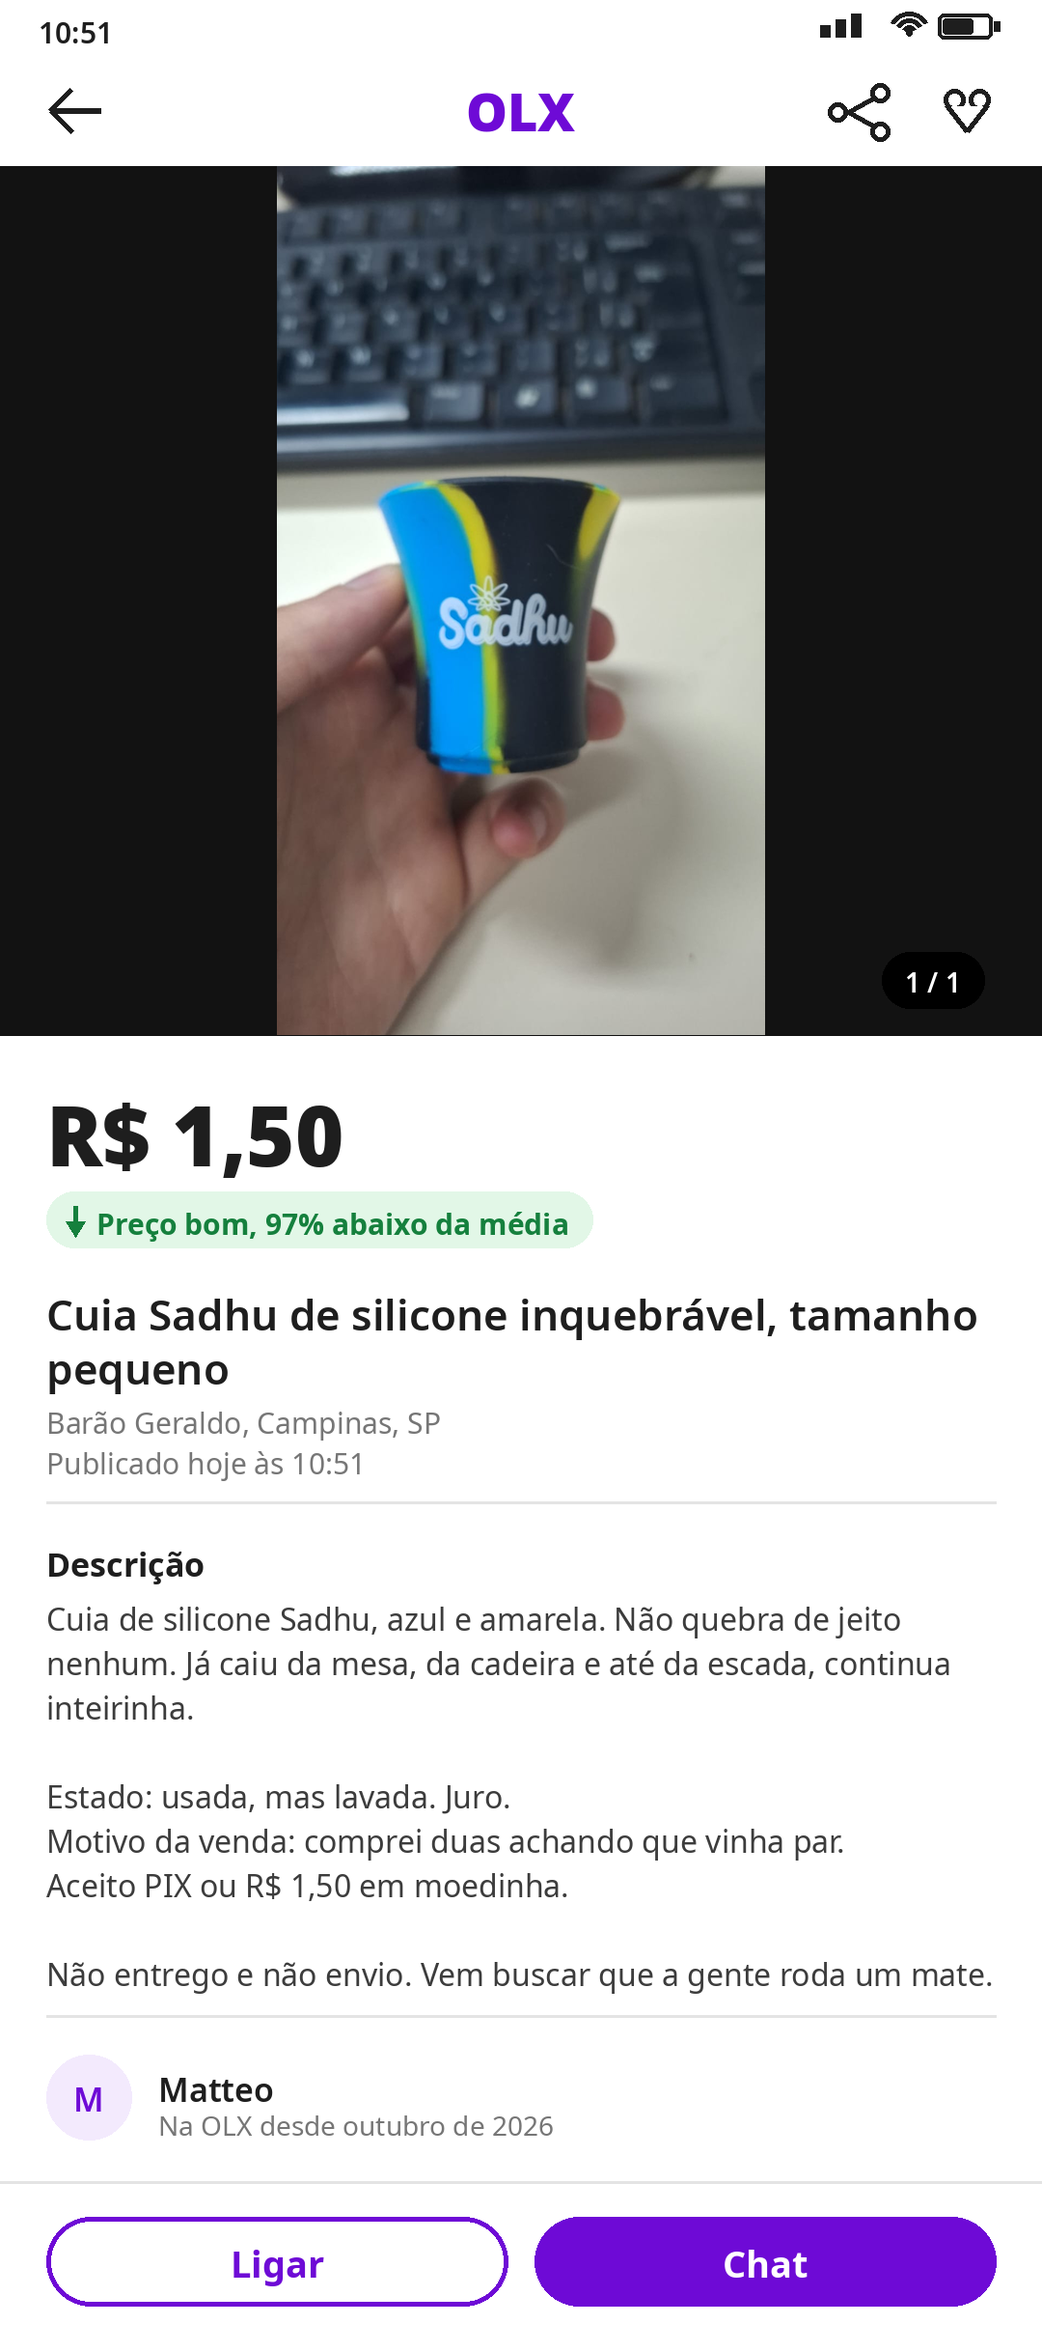
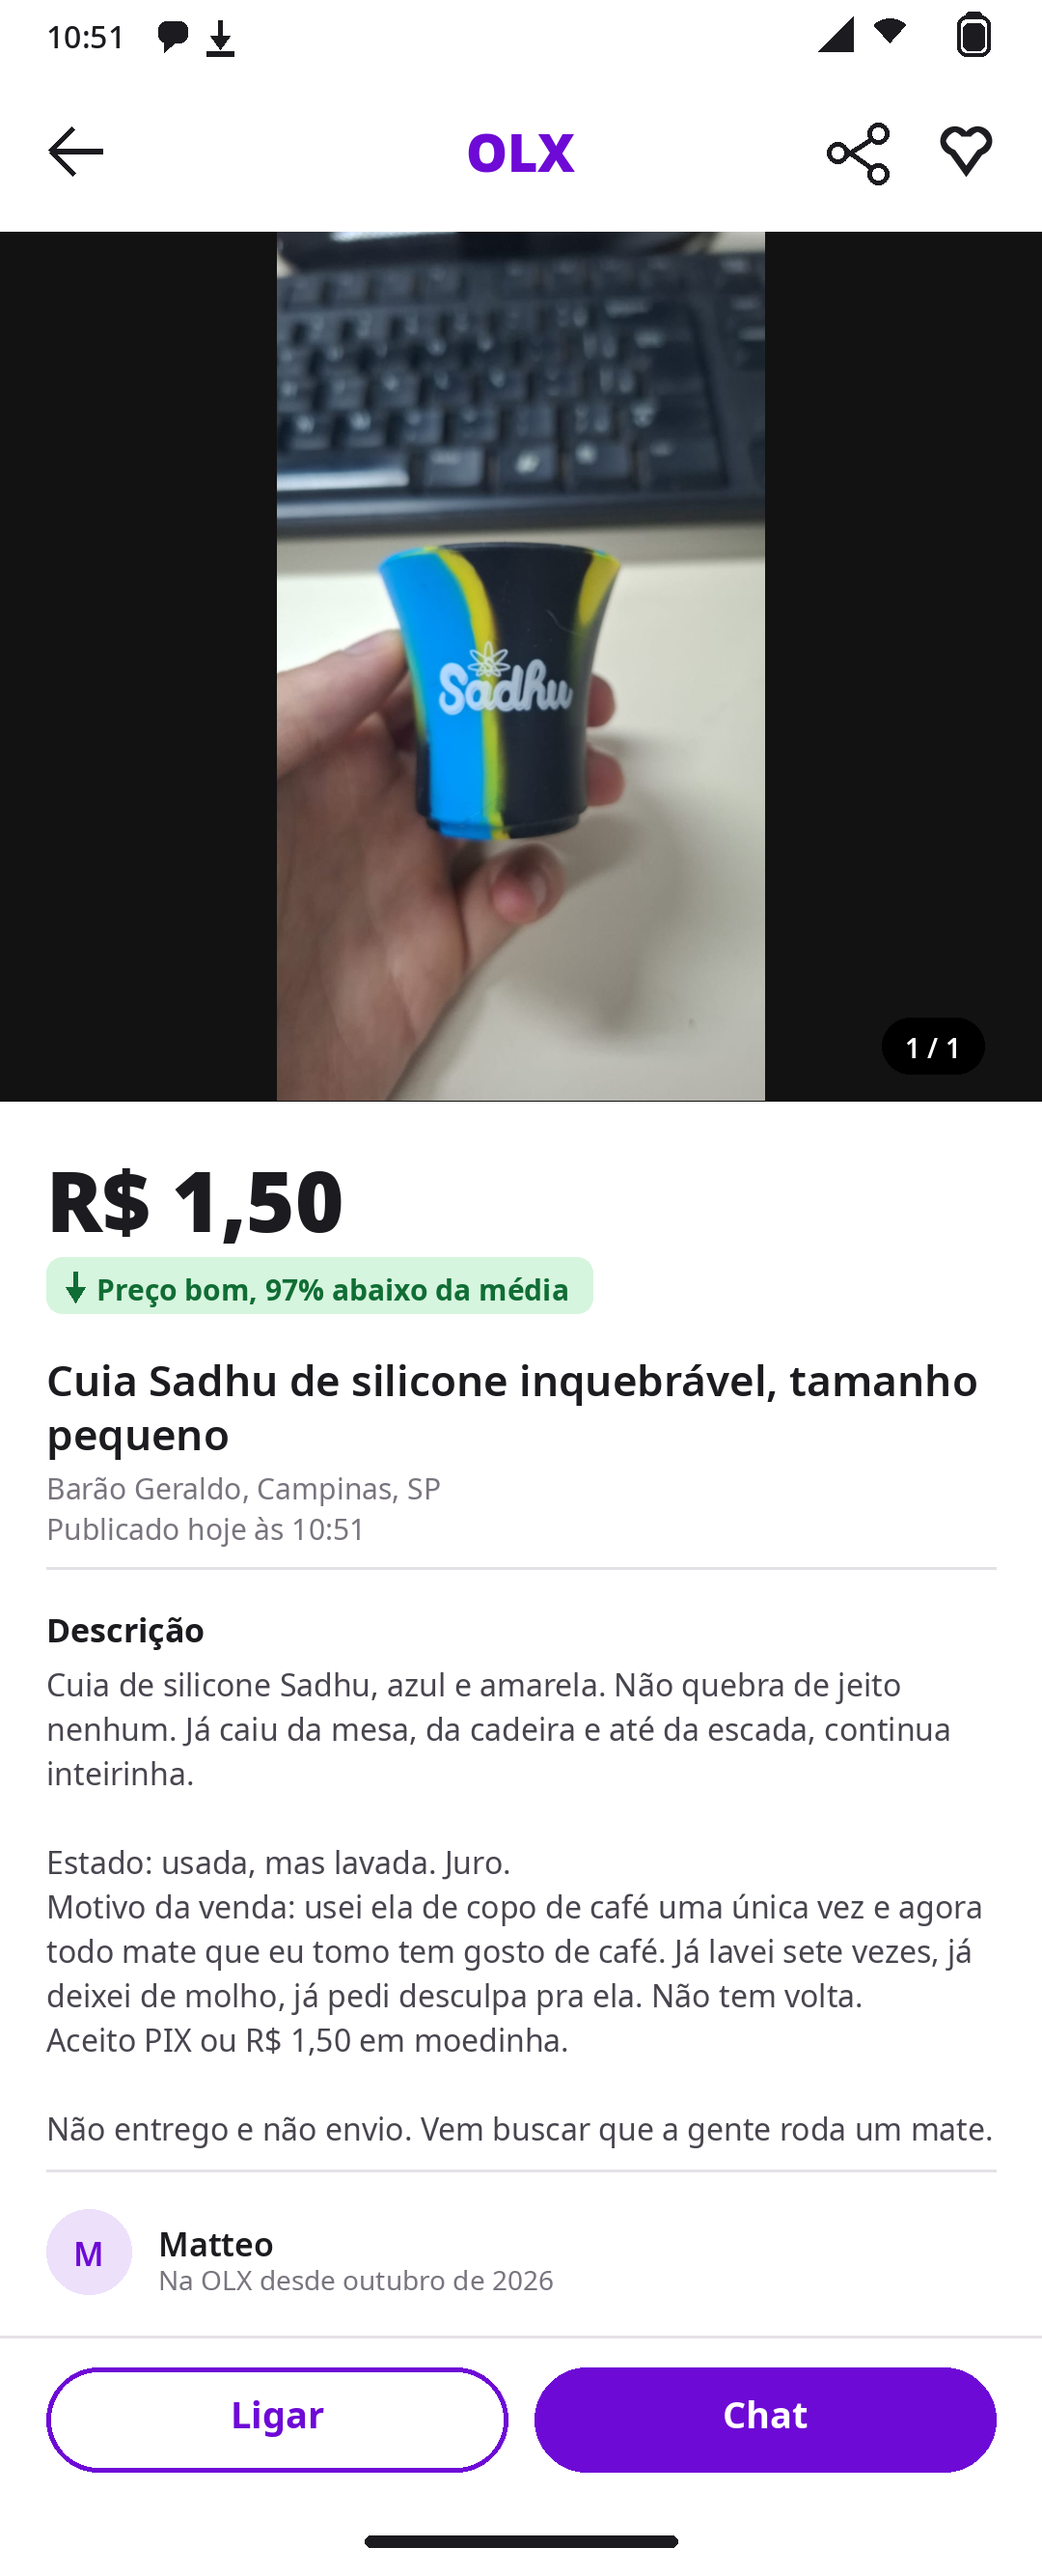
Adota a interface do Android atual e reescreve o motivo da venda

diff --git a/olx-cuia/gerar_anuncio_olx.py b/olx-cuia/gerar_anuncio_olx.py
@@ -3,12 +3,14 @@
 Gera um mockup de anúncio da OLX usando a foto da cuia Sadhu.
 Brincadeira, não é material oficial nem afiliado à OLX.
 
-A altura final é calculada a partir do conteúdo, então a barra de
-botões nunca cobre a descrição ou o card do vendedor.
+A interface imita um Android atual (Material 3), com barra de status do
+Android, top app bar achatada, botões em formato pill e a barra de gestos
+no rodapé. A altura final é calculada a partir do conteúdo, então a barra
+de ações nunca cobre a descrição ou o card do vendedor.
 """
 
 from pathlib import Path
-from PIL import Image, ImageDraw, ImageFont
+from PIL import Image, ImageChops, ImageDraw, ImageFilter, ImageFont
 
 # ---------------------------------------------------------------- caminhos
 AQUI = Path(__file__).resolve().parent
@@ -22,24 +24,29 @@ def fonte(nome, tamanho):
     return ImageFont.truetype(str(FONTES / f"NotoSans-{nome}.ttf"), tamanho)
 
 
-# ---------------------------------------------------------------- paleta
+# ------------------------------------------------- paleta (Material 3)
 ROXO = (110, 10, 214)
-ROXO_CLARO = (243, 234, 253)
+ROXO_CLARO = (237, 224, 251)
 BRANCO = (255, 255, 255)
-PRETO_TEXTO = (30, 30, 30)
-CINZA_TEXTO = (60, 60, 60)
-CINZA = (118, 118, 118)
-CINZA_LINHA = (228, 228, 228)
+ON_SURFACE = (28, 27, 31)
+ON_SURFACE_VAR = (73, 69, 79)
+OUTLINE = (121, 116, 126)
+OUTLINE_VAR = (228, 225, 230)
 FUNDO_FOTO = (18, 18, 18)
-VERDE_BG = (226, 247, 231)
-VERDE_TXT = (21, 128, 61)
+VERDE_BG = (214, 245, 222)
+VERDE_TXT = (16, 109, 52)
+NAV_PILL = (28, 27, 31)
 
 L = 1080
 MARGEM = 48
-ALTURA_BARRA = 176
-CANVAS = 3200  # rascunho generoso, cortado no final
+H_STATUS = 72
+H_APPBAR = 168
+H_ACOES = 176
+H_NAV = 72
+CANVAS = 3400  # rascunho generoso, cortado no final
 
 # ---------------------------------------------------------------- conteúdo
+HORA = "10:51"
 PRECO = "R$ 1,50"
 SELO = "Preço bom, 97% abaixo da média"
 TITULO = "Cuia Sadhu de silicone inquebrável, tamanho pequeno"
@@ -52,14 +59,16 @@ DESCRICAO = (
     "Já caiu da mesa, da cadeira e até da escada, continua inteirinha.\n"
     "\n"
     "Estado: usada, mas lavada. Juro.\n"
-    "Motivo da venda: comprei duas achando que vinha par.\n"
+    "Motivo da venda: usei ela de copo de café uma única vez e agora todo "
+    "mate que eu tomo tem gosto de café. Já lavei sete vezes, já deixei de "
+    "molho, já pedi desculpa pra ela. Não tem volta.\n"
     "Aceito PIX ou R$ 1,50 em moedinha.\n"
     "\n"
     "Não entrego e não envio. Vem buscar que a gente roda um mate."
 )
 
 # ---------------------------------------------------------------- fontes
-f_status = fonte("SemiBold", 30)
+f_status = fonte("Medium", 32)
 f_logo = fonte("Black", 54)
 f_preco = fonte("Black", 86)
 f_badge = fonte("Bold", 30)
@@ -76,15 +85,14 @@ img = Image.new("RGB", (L, CANVAS), BRANCO)
 d = ImageDraw.Draw(img)
 
 
+# ---------------------------------------------------------------- helpers
 def largura(texto, f):
     x0, _, x1, _ = d.textbbox((0, 0), texto, font=f)
     return x1 - x0
 
 
-def centro(texto, f, x_ini, x_fim, y, cor, desenho=None):
-    (desenho or d).text(
-        ((x_ini + x_fim) / 2 - largura(texto, f) / 2, y), texto, font=f, fill=cor
-    )
+def centro(texto, f, x_ini, x_fim, y, cor):
+    d.text(((x_ini + x_fim) / 2 - largura(texto, f) / 2, y), texto, font=f, fill=cor)
 
 
 def quebra(texto, f, max_larg):
@@ -107,54 +115,96 @@ def quebra(texto, f, max_larg):
     return linhas
 
 
-# ================================================= 1. barra de status
-d.text((MARGEM - 8, 12), "10:51", font=f_status, fill=PRETO_TEXTO)
+def _mascara_coracao(lado, w):
+    """Silhueta cheia de coração, centrada num quadrado de lado `lado`."""
+    m = Image.new("L", (lado, lado), 0)
+    dm = ImageDraw.Draw(m)
+    cx = cy = lado / 2
+    r = w * 0.28
+    topo = cy - w * 0.18
+    for dx in (-w * 0.22, w * 0.22):
+        dm.ellipse([cx + dx - r, topo - r, cx + dx + r, topo + r], fill=255)
+    dm.polygon(
+        [(cx - w * 0.5, topo), (cx + w * 0.5, topo), (cx, cy + w * 0.52)], fill=255
+    )
+    return m
 
-bx = L - 230
-for i, h in enumerate((12, 18, 24)):
-    d.rectangle([bx + i * 16, 38 - h, bx + i * 16 + 10, 38], fill=PRETO_TEXTO)
 
-wx = L - 138
-for r in (22, 15, 8):
-    d.arc([wx - r, 34 - r, wx + r, 34 + r], 210, 330, fill=PRETO_TEXTO, width=5)
-d.ellipse([wx - 3, 31, wx + 3, 37], fill=PRETO_TEXTO)
+def coracao(base, cx, cy, w, cor, espessura=None):
+    """
+    Desenha um coração em (cx, cy). Sem `espessura` sai cheio; com
+    `espessura` sai vazado, usando erosão da máscara para o contorno
+    ficar com a mesma grossura em toda a volta.
+    """
+    S = 4  # supersample, suaviza as bordas
+    lado = int(w * S * 1.7)
+    m = _mascara_coracao(lado, w * S)
+    if espessura:
+        k = 2 * int(espessura * S) + 1
+        m = ImageChops.subtract(m, m.filter(ImageFilter.MinFilter(k)))
+    m = m.resize((lado // S, lado // S), Image.LANCZOS)
+    base.paste(Image.new("RGB", m.size, cor), (int(cx - m.width / 2), int(cy - m.height / 2)), m)
 
-d.rounded_rectangle([L - 108, 14, L - 52, 40], radius=6, outline=PRETO_TEXTO, width=4)
-d.rectangle([L - 50, 22, L - 44, 32], fill=PRETO_TEXTO)
-d.rounded_rectangle([L - 103, 19, L - 72, 35], radius=3, fill=PRETO_TEXTO)
 
-# ================================================= 2. header
-HEADER_BASE = 172
-cy = (56 + HEADER_BASE) // 2
+# ======================================= 1. barra de status do Android
+cy = H_STATUS // 2
+d.text((MARGEM, cy - 21), HORA, font=f_status, fill=ON_SURFACE)
 
-d.line([(52, cy), (104, cy)], fill=PRETO_TEXTO, width=6)
-d.line([(52, cy), (74, cy - 22)], fill=PRETO_TEXTO, width=6)
-d.line([(52, cy), (74, cy + 22)], fill=PRETO_TEXTO, width=6)
+# ícones de notificação à esquerda, bem típico do Android
+nx = MARGEM + largura(HORA, f_status) + 34
+d.rounded_rectangle([nx, cy - 14, nx + 30, cy + 8], radius=8, fill=ON_SURFACE)
+d.polygon([(nx + 6, cy + 7), (nx + 18, cy + 7), (nx + 6, cy + 18)], fill=ON_SURFACE)
+nx += 50
+d.line([(nx + 14, cy - 15), (nx + 14, cy + 6)], fill=ON_SURFACE, width=5)
+d.polygon([(nx + 4, cy + 1), (nx + 24, cy + 1), (nx + 14, cy + 15)], fill=ON_SURFACE)
+d.rectangle([nx, cy + 17, nx + 28, cy + 22], fill=ON_SURFACE)
+
+# sinal de celular (triângulo cheio, signal_cellular_4_bar)
+sx = L - 232
+d.polygon([(sx, cy + 17), (sx + 36, cy + 17), (sx + 36, cy - 19)], fill=ON_SURFACE)
+
+# wifi (leque sólido apontando para cima)
+wx, wr = L - 158, 25
+d.pieslice([wx - wr, cy - wr + 8, wx + wr, cy + wr + 8], 228, 312, fill=ON_SURFACE)
+
+# bateria vertical com nível, como no Android
+bx = L - 88
+d.rounded_rectangle([bx + 9, cy - 24, bx + 25, cy - 18], radius=3, fill=ON_SURFACE)
+d.rounded_rectangle(
+    [bx, cy - 20, bx + 34, cy + 22], radius=10, outline=ON_SURFACE, width=4
+)
+d.rounded_rectangle([bx + 6, cy - 12, bx + 28, cy + 16], radius=6, fill=ON_SURFACE)
+
+# ======================================= 2. top app bar (Material 3)
+APPBAR_BASE = H_STATUS + H_APPBAR
+cy = H_STATUS + H_APPBAR // 2
+
+# arrow_back
+d.line([(52, cy), (106, cy)], fill=ON_SURFACE, width=6)
+d.line([(52, cy), (76, cy - 24)], fill=ON_SURFACE, width=6)
+d.line([(52, cy), (76, cy + 24)], fill=ON_SURFACE, width=6)
 
 centro("OLX", f_logo, 0, L, cy - 36, ROXO)
 
-sx, sy = L - 190, cy
-d.line([(sx - 18, sy + 6), (sx + 18, sy - 14)], fill=PRETO_TEXTO, width=5)
-d.line([(sx - 18, sy - 2), (sx + 18, sy + 18)], fill=PRETO_TEXTO, width=5)
-for px, py in ((sx - 22, sy + 2), (sx + 22, sy - 18), (sx + 22, sy + 22)):
-    d.ellipse([px - 10, py - 10, px + 10, py + 10], fill=BRANCO, outline=PRETO_TEXTO, width=5)
+# share (três nós ligados por duas hastes)
+sx = L - 192
+d.line([(sx - 16, cy + 8), (sx + 18, cy - 14)], fill=ON_SURFACE, width=5)
+d.line([(sx - 16, cy - 4), (sx + 18, cy + 20)], fill=ON_SURFACE, width=5)
+for px, py in ((sx - 20, cy + 2), (sx + 22, cy - 18), (sx + 22, cy + 24)):
+    d.ellipse([px - 11, py - 11, px + 11, py + 11], fill=BRANCO, outline=ON_SURFACE, width=5)
 
-hx, hy = L - 78, cy - 6
-d.ellipse([hx - 24, hy - 16, hx - 2, hy + 6], outline=PRETO_TEXTO, width=5)
-d.ellipse([hx + 2, hy - 16, hx + 24, hy + 6], outline=PRETO_TEXTO, width=5)
-d.polygon([(hx - 21, hy + 2), (hx + 21, hy + 2), (hx, hy + 28)], fill=BRANCO)
-d.line([(hx - 21, hy + 1), (hx, hy + 28)], fill=PRETO_TEXTO, width=5)
-d.line([(hx + 21, hy + 1), (hx, hy + 28)], fill=PRETO_TEXTO, width=5)
+# favorite_border (coração vazado, feito por duas camadas)
+coracao(img, L - 78, cy, 54, ON_SURFACE, espessura=5)
 
-# ================================================= 3. foto
+# ======================================= 3. foto
 FOTO_ALTURA = 900
-FOTO_BASE = HEADER_BASE + FOTO_ALTURA
-d.rectangle([0, HEADER_BASE, L, FOTO_BASE], fill=FUNDO_FOTO)
+FOTO_BASE = APPBAR_BASE + FOTO_ALTURA
+d.rectangle([0, APPBAR_BASE, L, FOTO_BASE], fill=FUNDO_FOTO)
 
 original = Image.open(FOTO).convert("RGB")
 escala = FOTO_ALTURA / original.height
 nova = original.resize((round(original.width * escala), FOTO_ALTURA), Image.LANCZOS)
-img.paste(nova, ((L - nova.width) // 2, HEADER_BASE))
+img.paste(nova, ((L - nova.width) // 2, APPBAR_BASE))
 
 cont = "1 / 1"
 cw = largura(cont, f_contador)
@@ -163,73 +213,83 @@ d.rounded_rectangle(
 )
 d.text((L - 60 - cw - 24, FOTO_BASE - 74), cont, font=f_contador, fill=BRANCO)
 
-# ================================================= 4. preço e selo
+# ======================================= 4. preço e selo
 y = FOTO_BASE + 44
-d.text((MARGEM, y), PRECO, font=f_preco, fill=PRETO_TEXTO)
+d.text((MARGEM, y), PRECO, font=f_preco, fill=ON_SURFACE)
 y += 118
 
 sw = largura(SELO, f_badge)
-d.rounded_rectangle([MARGEM, y, MARGEM + sw + 76, y + 58], radius=29, fill=VERDE_BG)
+d.rounded_rectangle([MARGEM, y, MARGEM + sw + 76, y + 58], radius=16, fill=VERDE_BG)
 ax, ay = MARGEM + 30, y + 29
 d.line([(ax, ay - 14), (ax, ay + 6)], fill=VERDE_TXT, width=5)
 d.polygon([(ax - 10, ay + 2), (ax + 10, ay + 2), (ax, ay + 18)], fill=VERDE_TXT)
 d.text((MARGEM + 52, y + 12), SELO, font=f_badge, fill=VERDE_TXT)
 y += 96
 
-# ================================================= 5. título e meta
+# ======================================= 5. título e meta
 for linha in quebra(TITULO, f_titulo, L - 2 * MARGEM):
-    d.text((MARGEM, y), linha, font=f_titulo, fill=PRETO_TEXTO)
+    d.text((MARGEM, y), linha, font=f_titulo, fill=ON_SURFACE)
     y += 56
 y += 10
 
-d.text((MARGEM, y), LOCAL, font=f_meta, fill=CINZA)
+d.text((MARGEM, y), LOCAL, font=f_meta, fill=OUTLINE)
 y += 42
-d.text((MARGEM, y), DATA, font=f_meta, fill=CINZA)
+d.text((MARGEM, y), DATA, font=f_meta, fill=OUTLINE)
 y += 62
 
-d.line([(MARGEM, y), (L - MARGEM, y)], fill=CINZA_LINHA, width=3)
+d.line([(MARGEM, y), (L - MARGEM, y)], fill=OUTLINE_VAR, width=3)
 y += 40
 
-# ================================================= 6. descrição
-d.text((MARGEM, y), "Descrição", font=f_sec, fill=PRETO_TEXTO)
+# ======================================= 6. descrição
+d.text((MARGEM, y), "Descrição", font=f_sec, fill=ON_SURFACE)
 y += 58
 
 for linha in quebra(DESCRICAO, f_desc, L - 2 * MARGEM):
     if linha:
-        d.text((MARGEM, y), linha, font=f_desc, fill=CINZA_TEXTO)
+        d.text((MARGEM, y), linha, font=f_desc, fill=ON_SURFACE_VAR)
     y += 46
 y += 20
 
-d.line([(MARGEM, y), (L - MARGEM, y)], fill=CINZA_LINHA, width=3)
+d.line([(MARGEM, y), (L - MARGEM, y)], fill=OUTLINE_VAR, width=3)
 y += 40
 
-# ================================================= 7. vendedor
+# ======================================= 7. vendedor
 d.ellipse([MARGEM, y, MARGEM + 88, y + 88], fill=ROXO_CLARO)
 centro(VENDEDOR[0], f_vend, MARGEM, MARGEM + 88, y + 22, ROXO)
-d.text((MARGEM + 116, y + 12), VENDEDOR, font=f_vend, fill=PRETO_TEXTO)
-d.text((MARGEM + 116, y + 54), VENDEDOR_SUB, font=f_vend_sub, fill=CINZA)
+d.text((MARGEM + 116, y + 12), VENDEDOR, font=f_vend, fill=ON_SURFACE)
+d.text((MARGEM + 116, y + 54), VENDEDOR_SUB, font=f_vend_sub, fill=OUTLINE)
 y += 88 + 44
 
-# ================================================= 8. corta e fecha
-A = y + ALTURA_BARRA
+# ======================================= 8. corta e fecha
+A = y + H_ACOES + H_NAV
 if A > CANVAS:
     raise SystemExit(f"conteúdo passou do canvas ({A} > {CANVAS})")
 img = img.crop((0, 0, L, A))
 d = ImageDraw.Draw(img)
 
-BARRA = A - ALTURA_BARRA
-d.rectangle([0, BARRA, L, A], fill=BRANCO)
-d.line([(0, BARRA), (L, BARRA)], fill=CINZA_LINHA, width=3)
+# barra de ações
+ACOES = A - H_ACOES - H_NAV
+d.rectangle([0, ACOES, L, A], fill=BRANCO)
+d.line([(0, ACOES), (L, ACOES)], fill=OUTLINE_VAR, width=3)
 
-by0, by1 = BARRA + 36, A - 48
+by0, by1 = ACOES + 32, ACOES + H_ACOES - 36
 meio = L // 2
 raio = (by1 - by0) // 2
 
+# outlined button
 d.rounded_rectangle([MARGEM, by0, meio - 14, by1], radius=raio, outline=ROXO, width=5)
 centro("Ligar", f_botao, MARGEM, meio - 14, by0 + 22, ROXO)
 
+# filled button
 d.rounded_rectangle([meio + 14, by0, L - MARGEM, by1], radius=raio, fill=ROXO)
 centro("Chat", f_botao, meio + 14, L - MARGEM, by0 + 22, BRANCO)
+
+# barra de gestos do Android
+d.rounded_rectangle(
+    [meio - 162, A - H_NAV // 2 - 6, meio + 162, A - H_NAV // 2 + 6],
+    radius=6,
+    fill=NAV_PILL,
+)
 
 img.save(SAIDA, "PNG", optimize=True)
 print(f"gerado: {SAIDA.name} ({img.width}x{img.height})")
